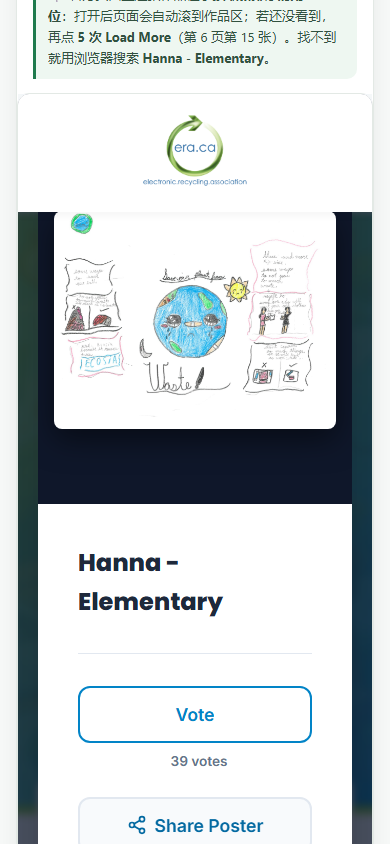
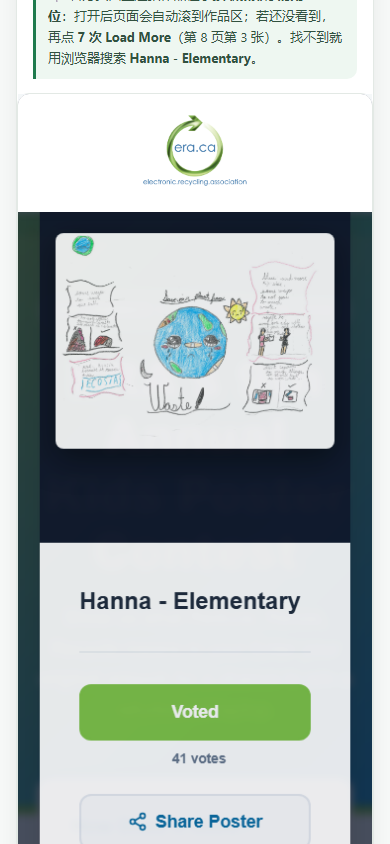
Stop assuming a first name is unique in the gallery
The 361-entry contest now contains two entries literally captioned
"Hanna - Elementary", and the live suite clicked "the first search result"
while asserting it was the entry under test - so it navigated to a different
child's page and two checks went red for no product reason.

Instead the suites now require the property that matters: the entry itself
must be offered among the same-name hits, and that exact row is clicked
(observed hrefs: gnegrepz, gnegrepz, xpgroevp, xpgroevp - each row carries
its image link and its vote link). verify_live 22/22, verify_browser 32/32.

diff --git a/verify_live.py b/verify_live.py
@@ -101,8 +101,19 @@ with sync_playwright() as p:
     pg.fill("#q", "Hanna")
     pg.wait_for_timeout(500)
     names = pg.evaluate("() => [...document.querySelectorAll('#grid .it .n')].map(e=>e.textContent)")
-    chk("live: a parent can find the entry by typing a name", names and all("Hanna" in n for n in names), str(names))
-    pg.click("#grid .it a")
+    chk("live: a parent can find the entry by typing a name", names and all("Hanna" in n for n in names),
+        "%d match(es): %s" % (len(names), names[:4]))
+    # first names repeat constantly in a 361-entry gallery, so the first hit is not
+    # necessarily the entry under test: require that the entry itself is offered
+    # and click that exact row
+    row = pg.query_selector('#grid .it a[href$="/%s.html"]' % a.id)
+    chk("live: the entry itself is offered among the %d same-name search hits" % len(names),
+        row is not None,
+        "hrefs=%s" % pg.evaluate(
+            "() => [...document.querySelectorAll('#grid .it a')].map(x => x.getAttribute('href')).slice(0,4)"))
+    if row is None:
+        row = pg.query_selector("#grid .it a")
+    row.click()
     pg.wait_for_timeout(2000)
     d = pg.evaluate("""() => ({url:location.href, title:(document.querySelector('.t')||{}).textContent,
         votes:(document.getElementById('v')||{}).textContent, asof:document.getElementById('asof').textContent,

diff --git a/verify_browser.py b/verify_browser.py
@@ -402,7 +402,9 @@ with sync_playwright() as pw:
         mb["open"] is False and mb["chips"] == len(top) and 0 < mb["first"] < mb["h"], str(mb))
     mob.close()
     chk("index: all %d entries listed on open (no Load More)" % all_cards, all_cards == len(items), str(all_cards))
-    chk("index: search narrows to the requested entry", one and all("Hanna" in t for t in one), str(one))
+    chk("index: search narrows to entries matching the typed name, target included (%d hits)" % len(one),
+        one and all("Hanna" in t for t in one)
+        and any(t.strip() == target["caption"].strip() for t in one), str(one[:4]))
     chk("index: name sort works", order == sorted(order), str(order))
     ix.select_option("#sort", "votes")
     ix.wait_for_timeout(600)
